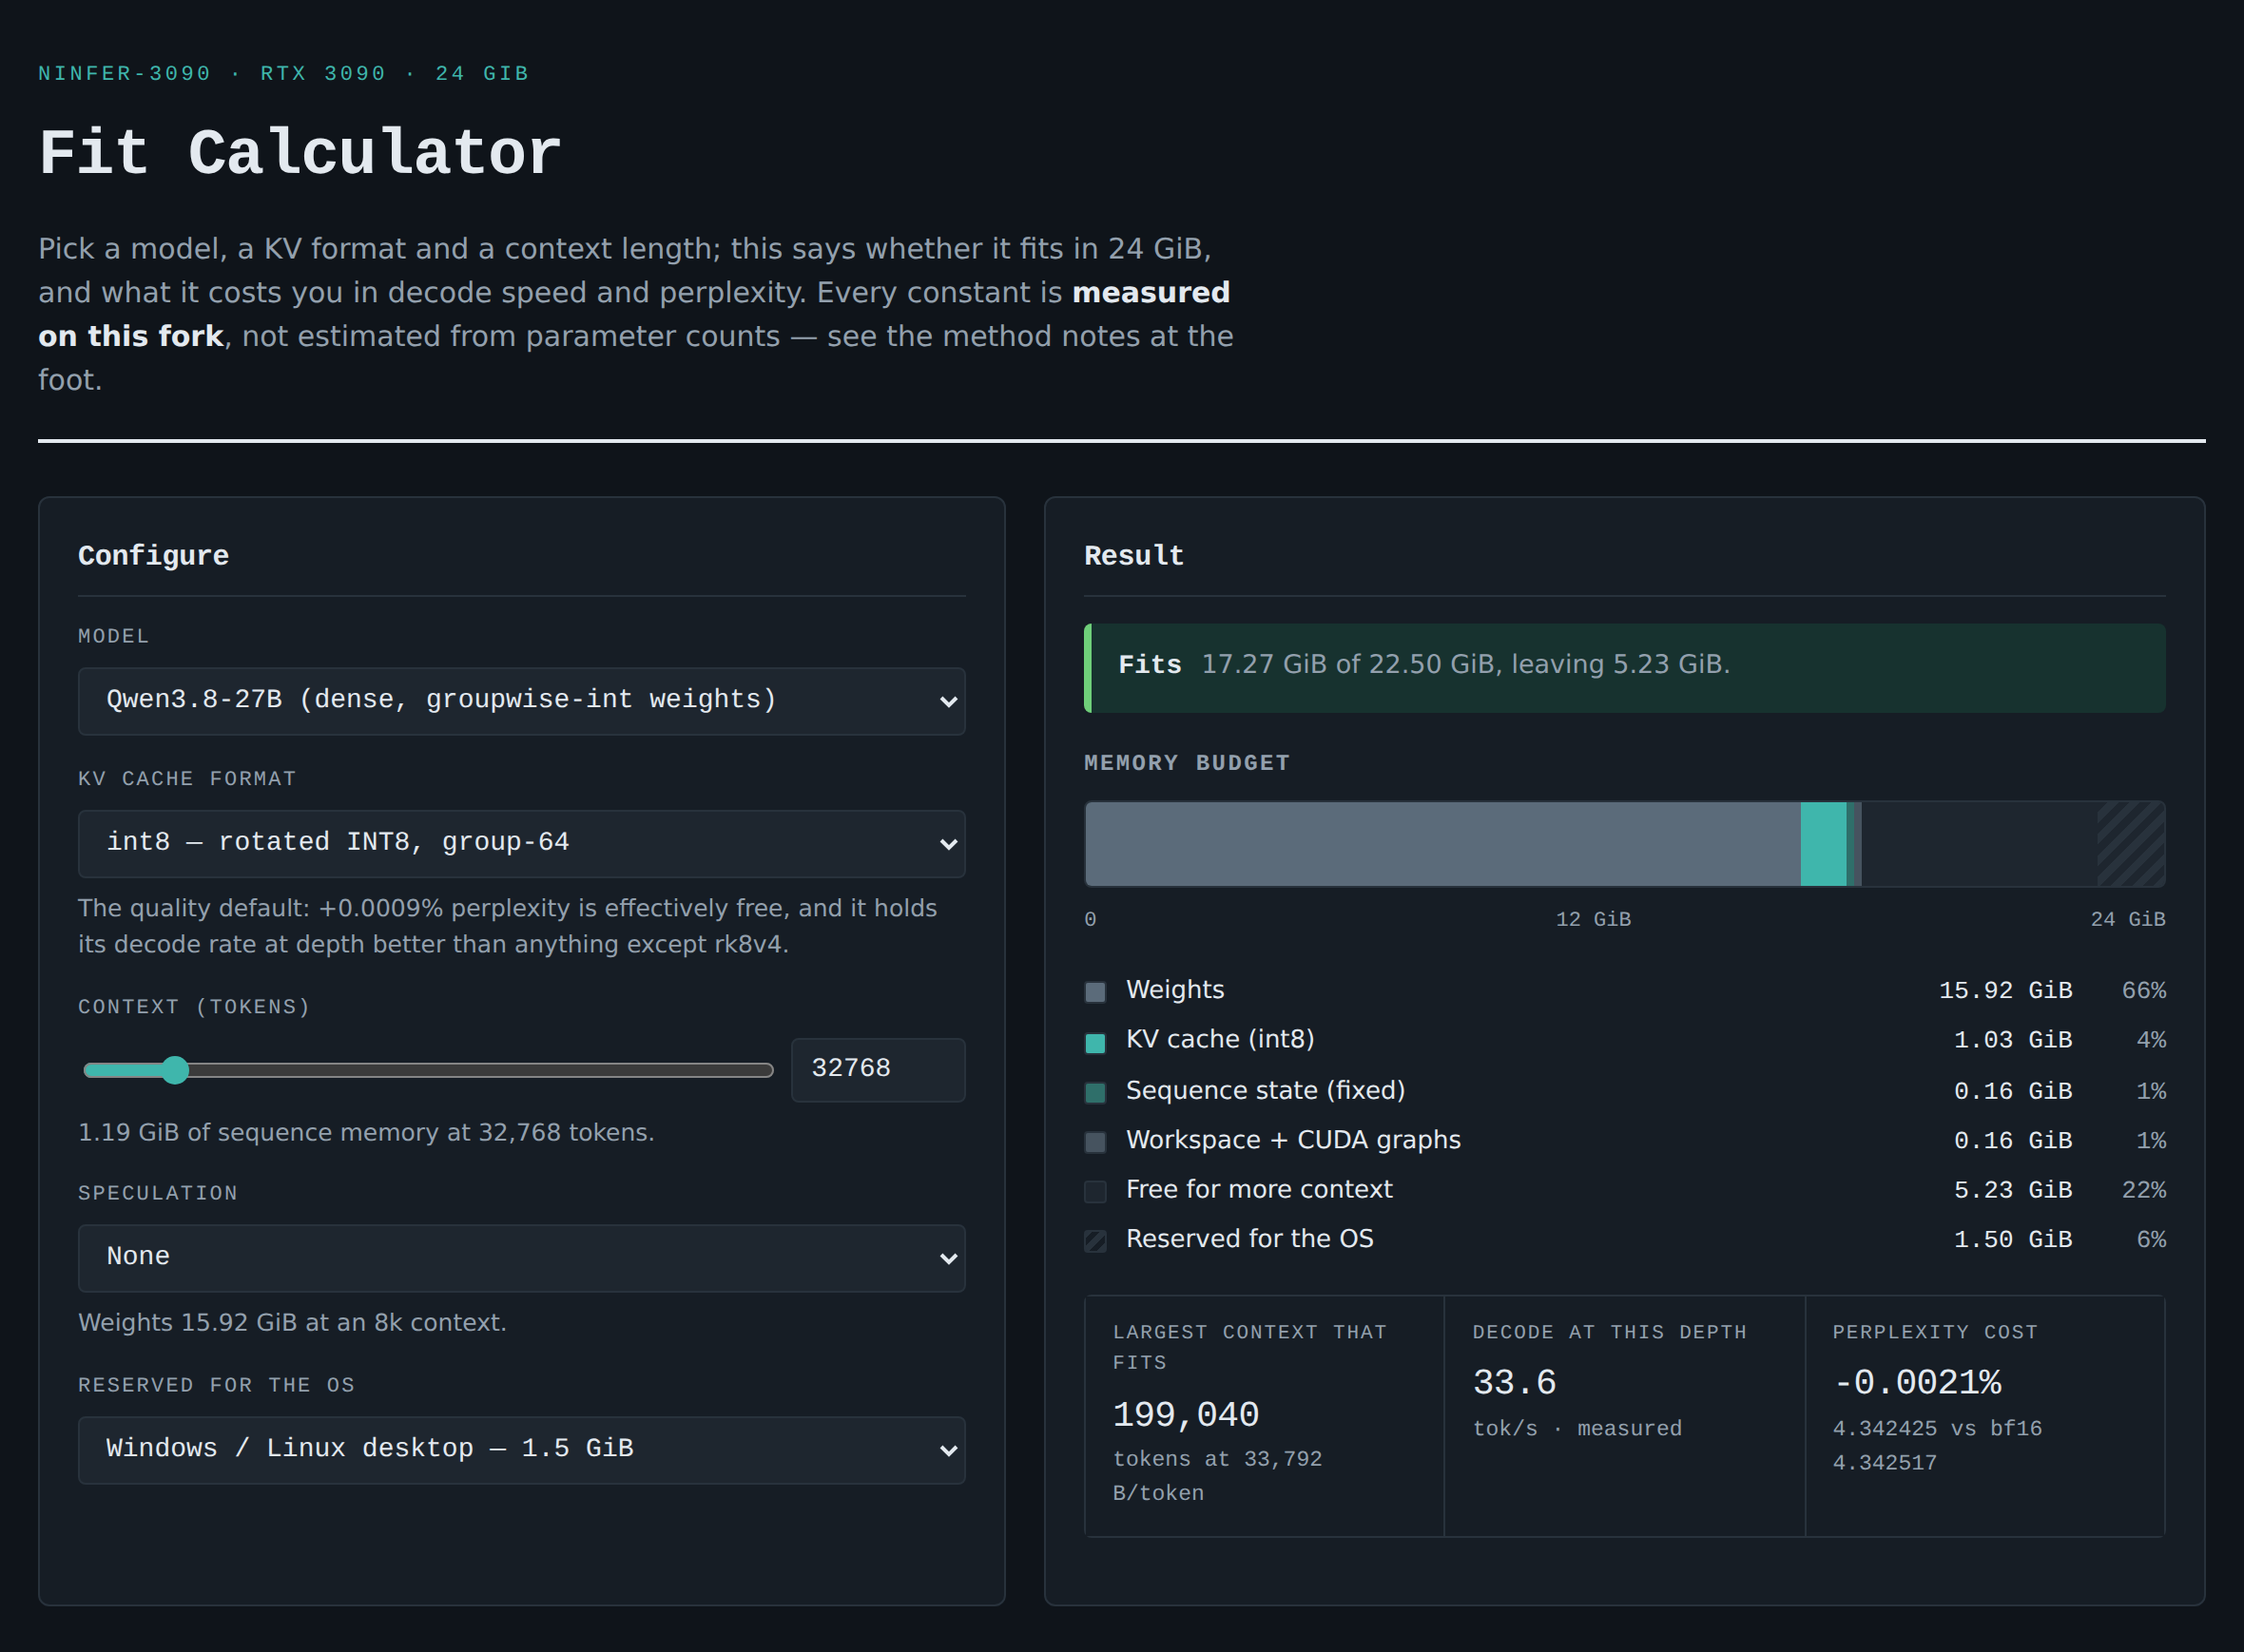
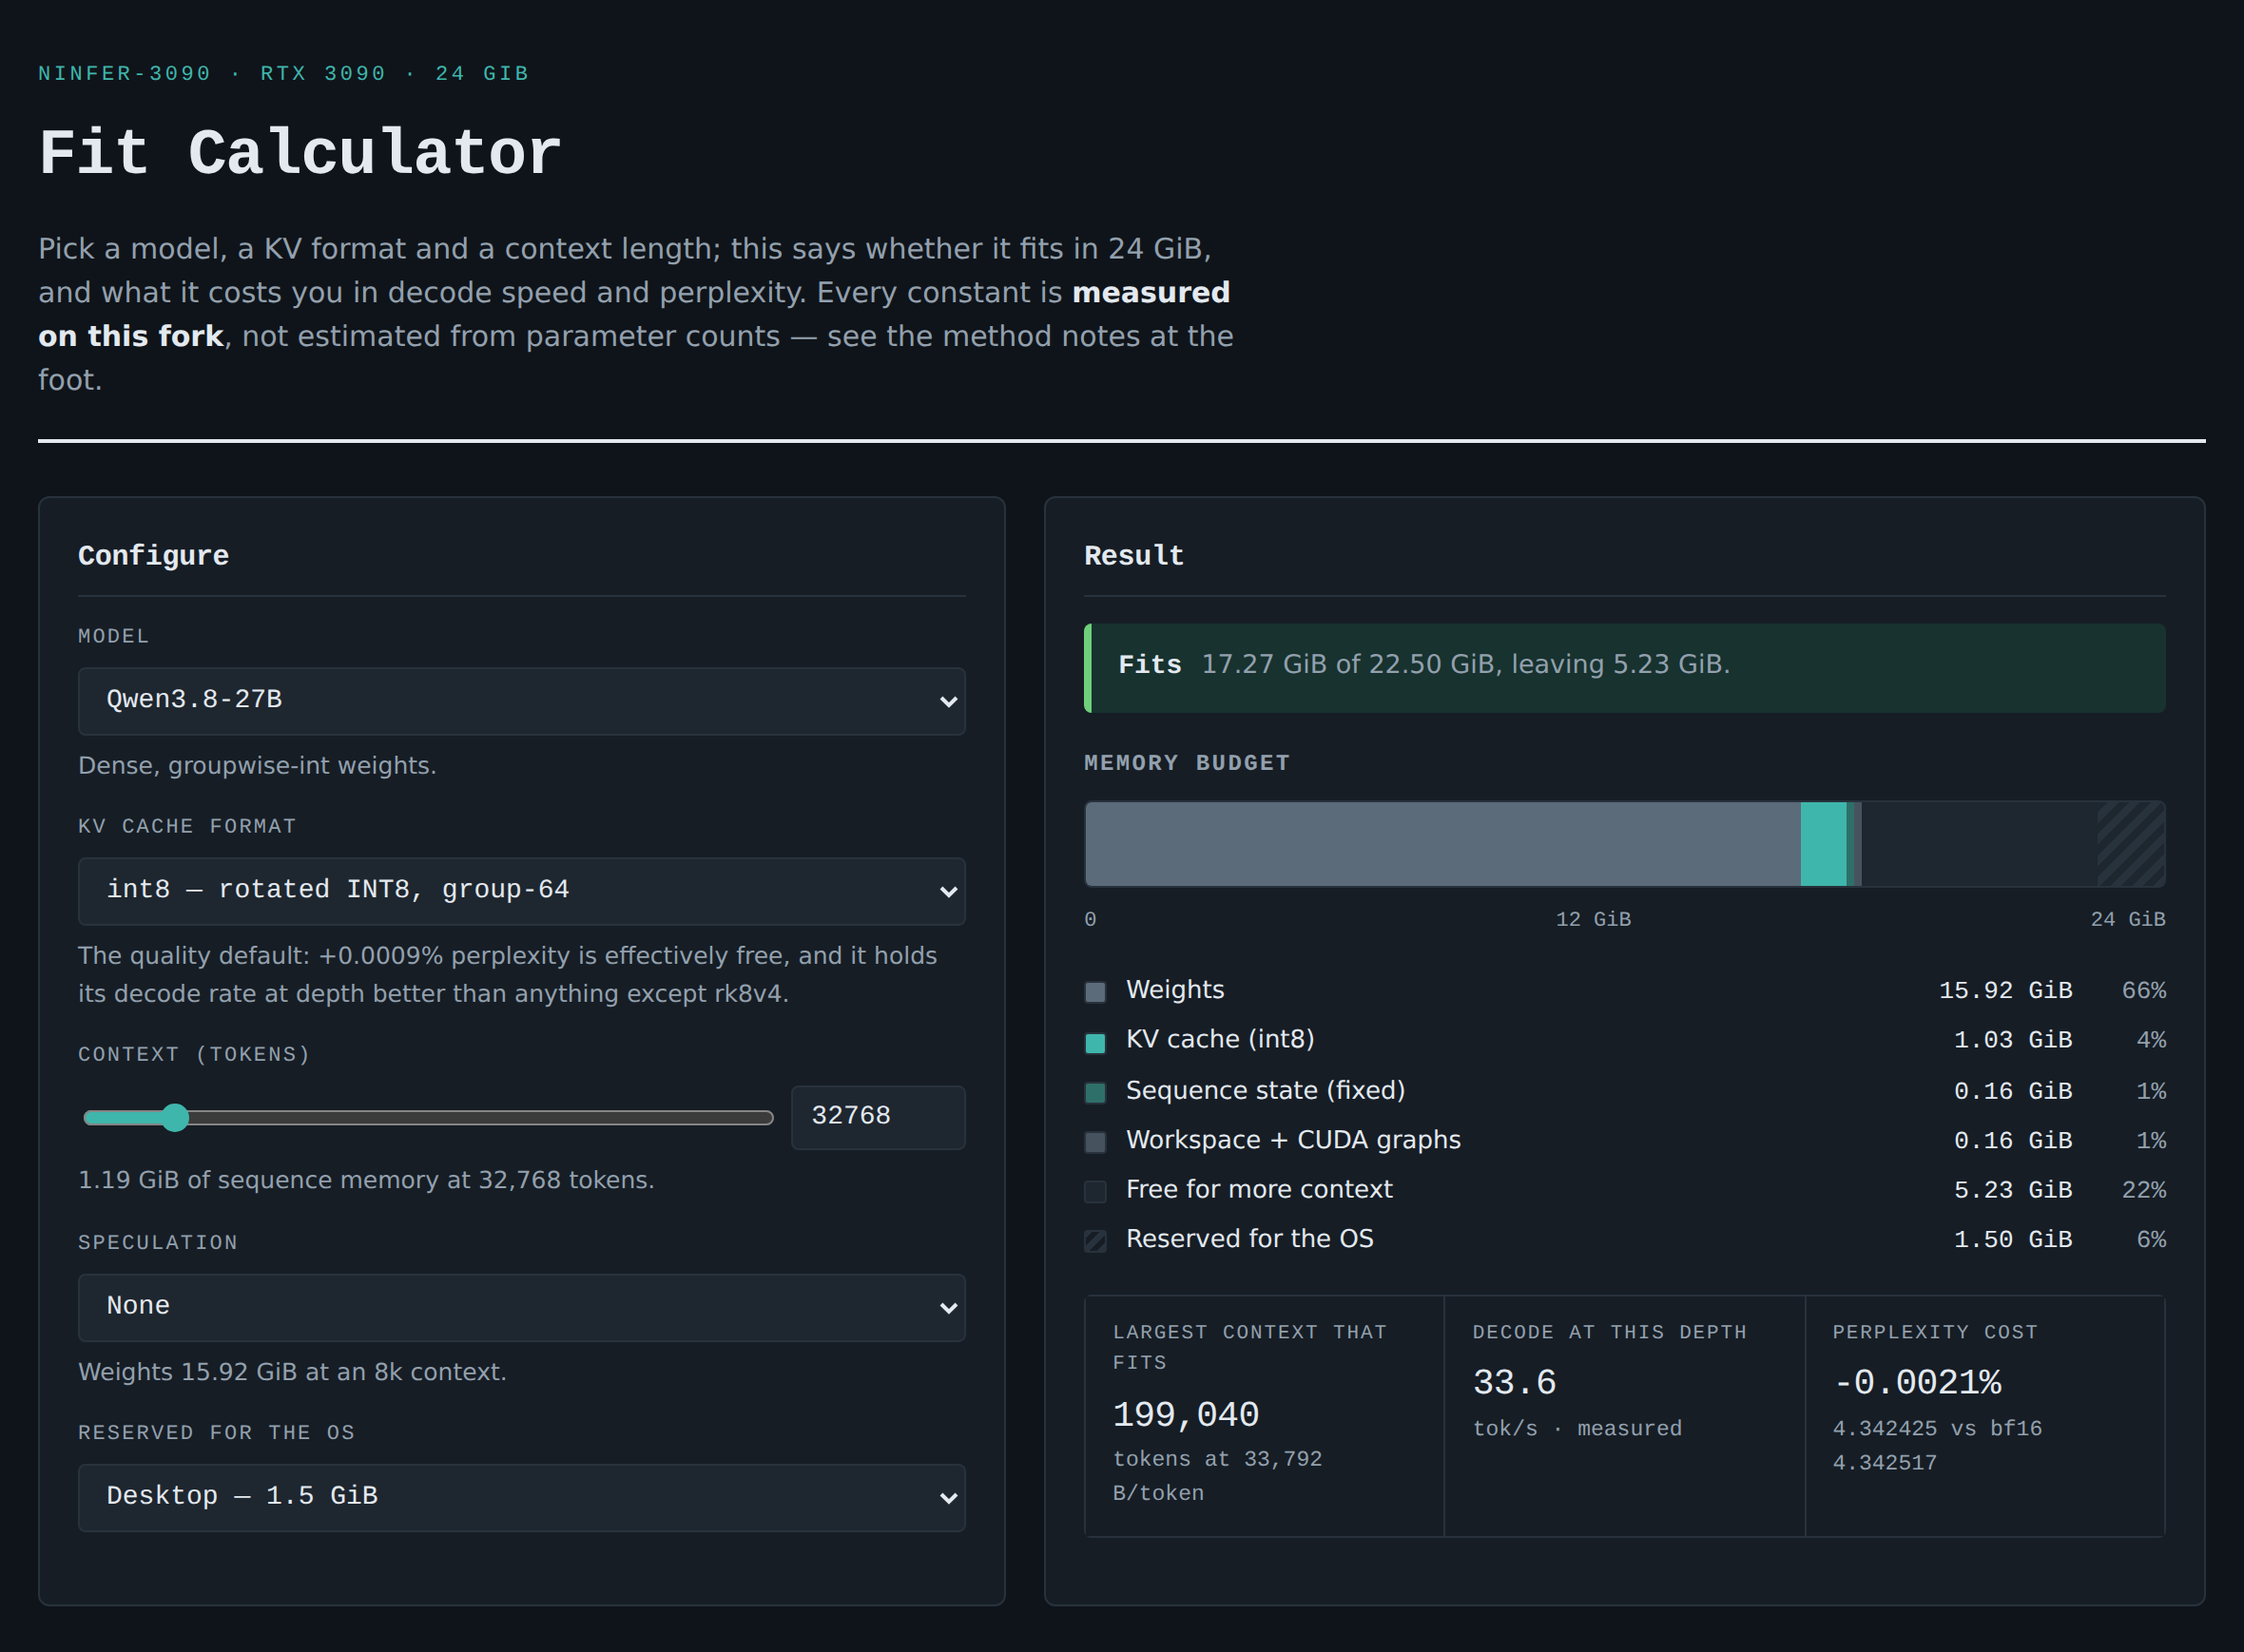
Make the fit calculator usable on a phone
At 390 px the page scrolled sideways (one long source path in the method notes did not wrap),
the speculation table repeated each model's full label on every row and pushed the figures off
screen, the table captions were clipped inside the scrolling box, and the model and OS-reserve
dropdowns truncated their labels.

- Code in the notes wraps, so the page itself no longer scrolls horizontally.
- The speculation table groups its rows under a short model-name heading instead of a Model
  column, and its mode names wrap on phones.
- Captions are notes below each table, outside the scroll box.
- Tables keep their first column pinned while the rest scrolls.
- The model dropdown shows the short name, with the description as a hint below; the OS reserve
  options are shorter.
- Under 560 px: tighter padding, and 16 px form text so iOS does not zoom on tap.

diff --git a/docs/config-calculator.html b/docs/config-calculator.html
@@ -211,19 +211,36 @@
   tr.is-current td { background: var(--accent-soft); }
   .best { color: var(--ok); font-weight: 600; }
   .bad  { color: var(--over); }
-  caption { caption-side: bottom; padding: 10px 12px; text-align: left; font-size: 12.5px;
-            color: var(--muted); }
+  /* The first column stays put while a wide table scrolls under it on a narrow screen. */
+  tbody td:first-child, thead th:first-child { position: sticky; left: 0; z-index: 1; }
+  tbody td:first-child { background: var(--surface); }
+  tr.is-current td:first-child { background: var(--accent-soft); }
+  tr.group th {
+    position: sticky; left: 0; text-align: left; font-family: var(--mono); font-size: 12.5px;
+    background: var(--sunken); border-bottom: 1px solid var(--line);
+  }
+  .tablenote { margin: 8px 2px 0; font-size: 12.5px; color: var(--muted); max-width: 90ch; }
 
   .prose { max-width: 74ch; }
   .prose p { margin: 0 0 12px; }
   .prose code, .inline-code {
     font-family: var(--mono); font-size: 12.5px; background: var(--sunken);
-    padding: 1px 5px; border-radius: 3px;
+    padding: 1px 5px; border-radius: 3px; overflow-wrap: anywhere;
   }
   .prose ul { margin: 0 0 12px; padding-left: 20px; }
   .prose li { margin-bottom: 6px; }
   footer { margin-top: 40px; padding-top: 16px; border-top: 1px solid var(--line);
            font-size: 12.5px; color: var(--muted); }
+  /* Phones. 16px form text stops iOS zooming the page when a control is tapped. */
+  @media (max-width: 560px) {
+    .wrap { padding: 20px 12px 48px; }
+    .panel { padding: 16px 14px; }
+    select, input[type="number"] { font-size: 16px; }
+    th, td { padding: 7px 9px; }
+    table { font-size: 13px; }
+    #spec-table tbody td:first-child { white-space: normal; min-width: 10.5em; }
+    section { margin-top: 28px; }
+  }
 </style>
 
 <div class="wrap">
@@ -244,6 +261,7 @@
       <div class="field">
         <label for="model">Model</label>
         <select id="model"></select>
+        <p class="hint" id="model-hint"></p>
       </div>
       <div class="field">
         <label for="kv">KV cache format</label>
@@ -267,9 +285,9 @@
         <label for="reserve">Reserved for the OS</label>
         <select id="reserve">
           <option value="307">Headless Linux &mdash; 0.3 GiB</option>
-          <option value="1536" selected>Windows / Linux desktop &mdash; 1.5 GiB</option>
-          <option value="2560">Desktop with a browser open &mdash; 2.5 GiB</option>
-          <option value="0">Nothing &mdash; the whole 24 GiB</option>
+          <option value="1536" selected>Desktop &mdash; 1.5 GiB</option>
+          <option value="2560">Desktop + browser &mdash; 2.5 GiB</option>
+          <option value="0">None &mdash; all 24 GiB</option>
         </select>
       </div>
     </div>
@@ -323,9 +341,9 @@
         </tr>
       </thead>
       <tbody></tbody>
-      <caption id="kv-caption"></caption>
     </table>
   </div>
+  <p class="tablenote" id="kv-caption"></p>
 </section>
 
 <section>
@@ -334,14 +352,14 @@
     <table id="depth-table">
       <thead><tr id="depth-head"></tr></thead>
       <tbody></tbody>
-      <caption>
+    </table>
+  </div>
+  <p class="tablenote">
         Decode tokens/second, no speculation. Attention re-reads the whole cache every step, so a
         format's cost only appears at depth &mdash; measuring at a shallow cache would show almost
         no difference between any of these. Each figure is the mean of three timed repetitions
         after one warm-up.
-      </caption>
-    </table>
-  </div>
+  </p>
 </section>
 
 <section>
@@ -349,17 +367,17 @@
   <div class="tablewrap">
     <table id="spec-table">
       <thead>
-        <tr><th>Model</th><th>Mode</th><th>Weights</th><th>Decode</th><th>Acceptance</th></tr>
+        <tr><th>Mode</th><th>Weights</th><th>Decode</th><th>Acceptance</th></tr>
       </thead>
       <tbody></tbody>
-      <caption>
+    </table>
+  </div>
+  <p class="tablenote">
         Measured at an 8,192-token context with INT8 KV. Speculation is only worth its weight when
         the draft is accepted often: on the 35B, MTP3 with the draft head accepts 59.4% and pays
         back handsomely, while DFlash2 on the 27B accepts 10.8% and is a net loss against no
         speculation at all.
-      </caption>
-    </table>
-  </div>
+  </p>
 </section>
 
 <section class="prose">
@@ -479,6 +497,7 @@ const DATA = {
          (weights_id "groupwise-int"). The runtime also recognizes other weight profiles (see
          src/runtime/engine/context_cache/context_cost_defaults.cpp), with different resident weightsBytes;
          these figures do not apply to a differently-quantized weight artifact of this model. */
+      name: "Qwen3.8-27B",
       label: "Qwen3.8-27B (dense, groupwise-int weights)",
       weightsBytes: 17093490688,
       workspaceBytes: 159981568,
@@ -517,6 +536,7 @@ const DATA = {
     "35b": {
       /* Measured against the pinned 560f227e groupwise-int artifact fetched by
          download-model.{sh,bat} qwen36-35b-a3b; see the note on the 27B entry above. */
+      name: "Qwen3.6-35B-A3B",
       label: "Qwen3.6-35B-A3B (MoE, groupwise-int weights)",
       weightsBytes: 21038469632,
       workspaceBytes: 109453312,
@@ -838,6 +858,7 @@ function render() {
   $("overhead-note").textContent =
     (specMode.seqFixedBytes / MIB).toFixed(1) + " MiB fixed + " +
     (specMode.seqPerToken === 0.0625 ? "1/16" : "1/8") + " B per token";
+  $("model-hint").textContent = model.label.replace(/^[^(]*\((.*)\)$/, (_, d) => d[0].toUpperCase() + d.slice(1) + ".");
   $("kv-hint").textContent = DATA.kvNotes[kv];
   $("spec-hint").textContent = (spec.accept !== null
     ? "Measured draft acceptance " + (spec.accept * 100).toFixed(1) + "% on this model. "
@@ -937,7 +958,8 @@ function buildSpecTable() {
     for (const sk of Object.keys(m.spec)) {
       const s = m.spec[sk];
       const rel = ((s.decode - baseDecode) / baseDecode) * 100;
-      out.push("<tr><td>" + m.label + "</td><td>" + s.label + "</td>" +
+      if (sk === "none") out.push('<tr class="group"><th colspan="4" scope="rowgroup">' + m.name + "</th></tr>");
+      out.push("<tr><td>" + s.label + "</td>" +
         "<td>" + s.weightsGiB.toFixed(2) + " GiB</td>" +
         '<td class="' + (rel < 0 ? "bad" : rel > 20 ? "best" : "") + '">' +
           s.decode.toFixed(2) + (sk === "none" ? "" : " (" + (rel > 0 ? "+" : "") +
@@ -950,7 +972,7 @@ function buildSpecTable() {
 
 function buildControls() {
   $("model").innerHTML = Object.keys(DATA.models)
-    .map((k) => '<option value="' + k + '">' + DATA.models[k].label + "</option>").join("");
+    .map((k) => '<option value="' + k + '">' + DATA.models[k].name + "</option>").join("");
   $("kv").innerHTML = KV_ORDER
     .map((k) => '<option value="' + k + '">' + DATA.kvLabels[k] + "</option>").join("");
   $("kv").value = "int8";
